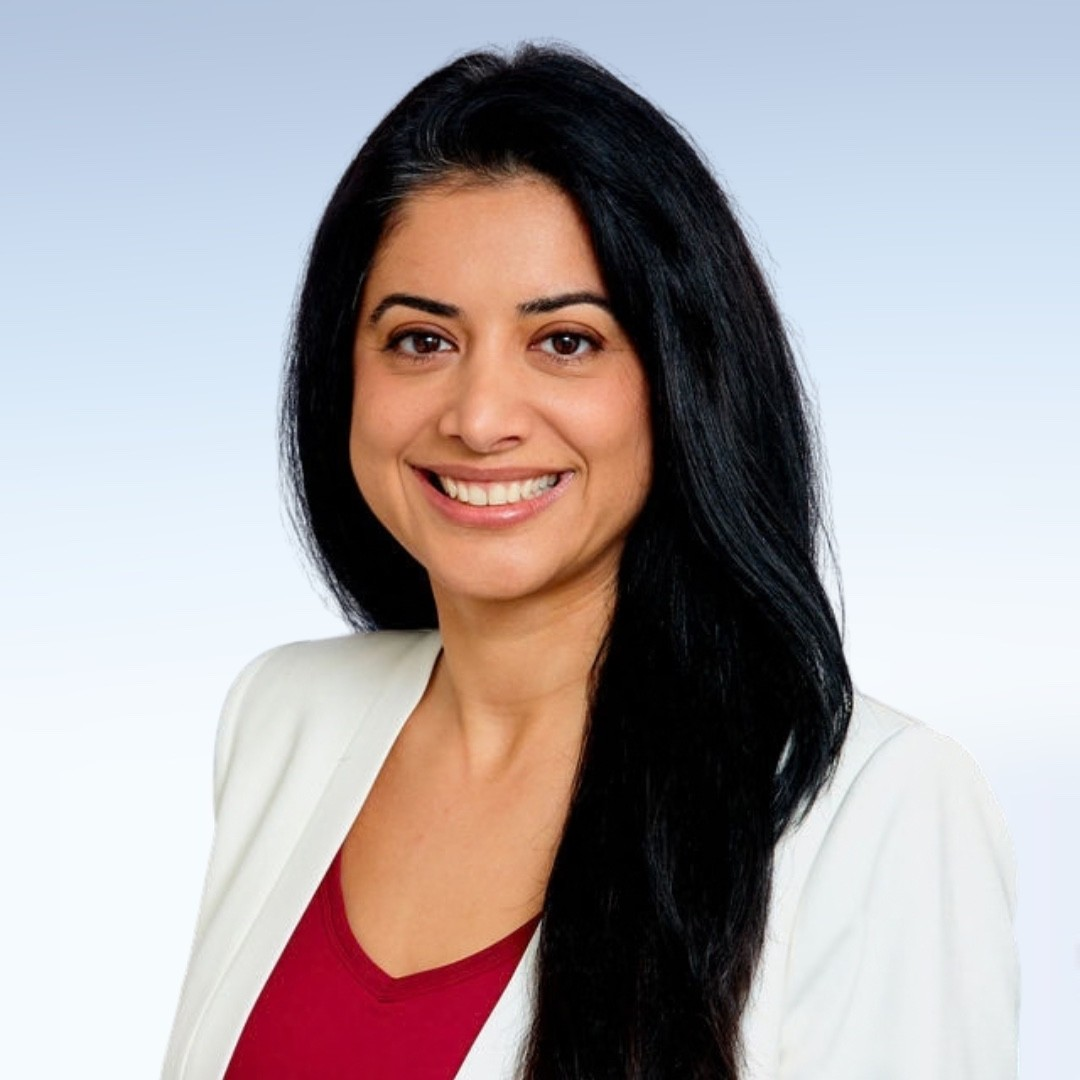
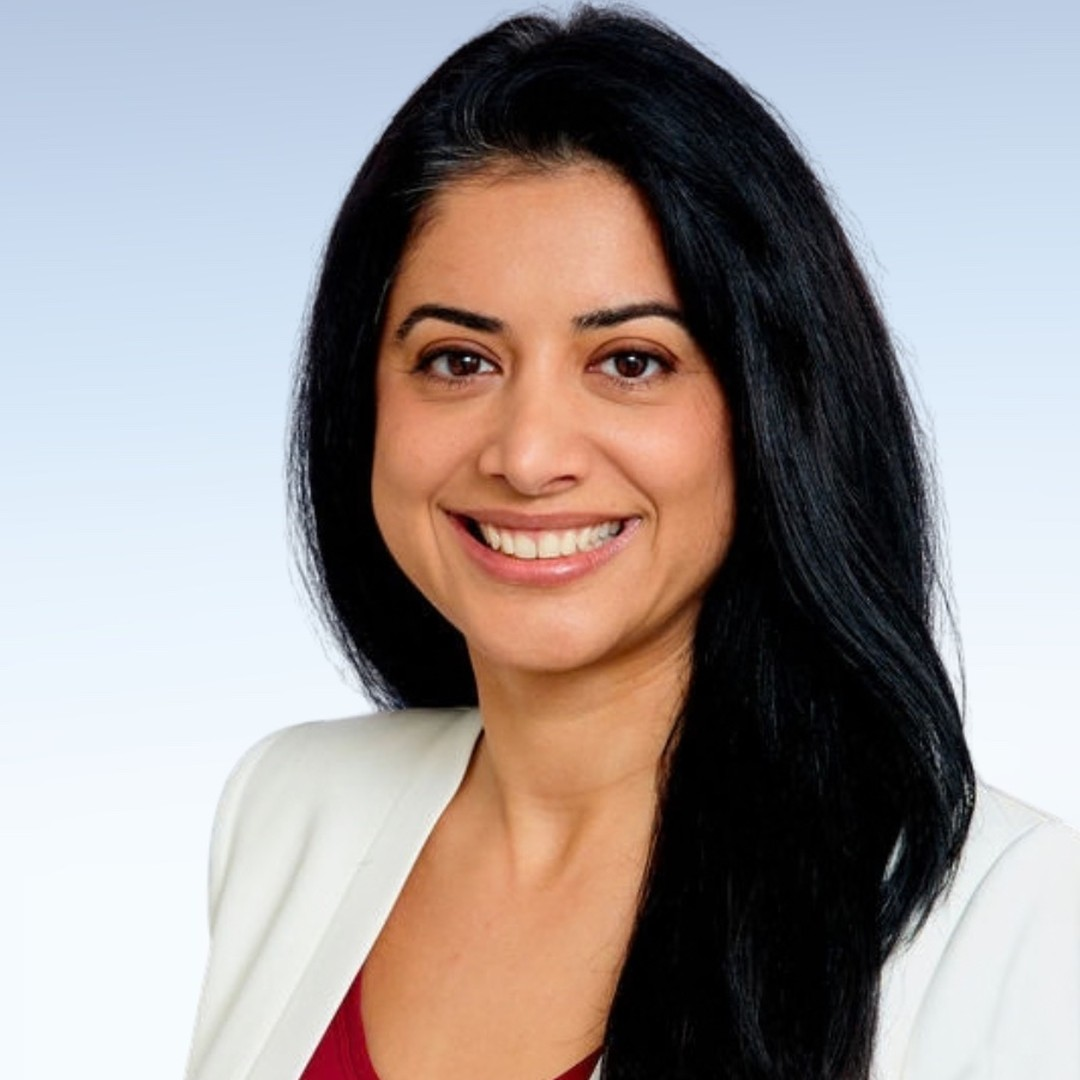
Crop Luiza Cortezian's photo closer to match other Lead Guides
Claude-Session: https://claude.ai/code/session_01UY2yYSyHezMTLTrkPybDFD

diff --git a/team.html b/team.html
@@ -111,7 +111,7 @@
           <a class="more" href="adlea-lead-guide-bios.html#regine-muradian">Learn more &#8594;</a>
         </div>
         <div class="team-card">
-          <div class="team-photo"><img src="assets/luiza-cortezian.jpg" alt="Luiza Cortezian"></div>
+          <div class="team-photo"><img src="assets/luiza-cortezian.jpg?v=2" alt="Luiza Cortezian"></div>
           <h3>Luiza Cortezian</h3>
           <p class="role"><a href="adlea-leadership-roles.html#brand-strategy-guide">Brand Strategy Guide</a></p>
           <a class="more" href="adlea-lead-guide-bios.html#luiza-cortezian">Learn more &#8594;</a>

diff --git a/adlea-lead-guide-bios.html b/adlea-lead-guide-bios.html
@@ -159,7 +159,7 @@
       </div>
 
       <div id="luiza-cortezian" class="bio-section">
-        <div class="bio-photo"><img src="assets/luiza-cortezian.jpg" alt="Luiza Cortezian"></div>
+        <div class="bio-photo"><img src="assets/luiza-cortezian.jpg?v=2" alt="Luiza Cortezian"></div>
         <div class="bio-text">
           <span class="eyebrow">Lead Guide</span>
           <h2>Luiza Cortezian</h2>
